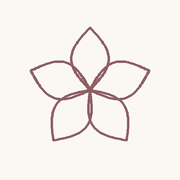
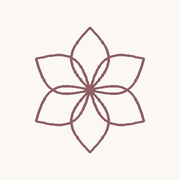
Correct the bloom mark to 6 petals — true lilies have 6, not 5
The site's signature flower (buttons, dividers, sprig/spray accents, both
favicons) was drawn with 5-fold symmetry, closer to a generic wildflower
than the plant the brand is actually named after. Lilium blooms show 6
tepals (3 petals + 3 look-alike sepals in two overlapping whorls of 3), and
daylilies match. For a brand literally called Lilylynne, the mark should
read as a lily.

Changed every instance from rotate(72/144/216/288) [5 petals] to
rotate(60/120/180/240/300) [6 petals] — the standalone bloom, the small
bloom on the sprig divider, both blooms on the corner spray, and the
favicon.svg — kept in sync across assets/botanicals.svg and the duplicated
inline sprites in index.html and contact.html. Regenerated the raster
favicon-32.png and apple-touch-icon.png with the same 6-fold symmetry.

Petal shape and stroke weight untouched — only the count changed, so this
reads as the same mark, corrected, not a new one.

Changed region(s): [[0.1667, 0.2778, 0.8333, 0.8611]]

diff --git a/index.html b/index.html
@@ -83,10 +83,11 @@
   <symbol id="bot-bloom" viewBox="0 0 24 24">
     <g fill="none" stroke="currentColor" stroke-width="1" stroke-linecap="round" stroke-linejoin="round">
       <path d="M12 12 C 9.6 9.2 9.4 5.6 12 3 C 14.6 5.6 14.4 9.2 12 12 Z"/>
-      <path d="M12 12 C 9.6 9.2 9.4 5.6 12 3 C 14.6 5.6 14.4 9.2 12 12 Z" transform="rotate(72 12 12)"/>
-      <path d="M12 12 C 9.6 9.2 9.4 5.6 12 3 C 14.6 5.6 14.4 9.2 12 12 Z" transform="rotate(144 12 12)"/>
-      <path d="M12 12 C 9.6 9.2 9.4 5.6 12 3 C 14.6 5.6 14.4 9.2 12 12 Z" transform="rotate(216 12 12)"/>
-      <path d="M12 12 C 9.6 9.2 9.4 5.6 12 3 C 14.6 5.6 14.4 9.2 12 12 Z" transform="rotate(288 12 12)"/>
+      <path d="M12 12 C 9.6 9.2 9.4 5.6 12 3 C 14.6 5.6 14.4 9.2 12 12 Z" transform="rotate(60 12 12)"/>
+      <path d="M12 12 C 9.6 9.2 9.4 5.6 12 3 C 14.6 5.6 14.4 9.2 12 12 Z" transform="rotate(120 12 12)"/>
+      <path d="M12 12 C 9.6 9.2 9.4 5.6 12 3 C 14.6 5.6 14.4 9.2 12 12 Z" transform="rotate(180 12 12)"/>
+      <path d="M12 12 C 9.6 9.2 9.4 5.6 12 3 C 14.6 5.6 14.4 9.2 12 12 Z" transform="rotate(240 12 12)"/>
+      <path d="M12 12 C 9.6 9.2 9.4 5.6 12 3 C 14.6 5.6 14.4 9.2 12 12 Z" transform="rotate(300 12 12)"/>
       <circle cx="12" cy="12" r="1.25"/>
     </g>
   </symbol>
@@ -102,10 +103,11 @@
       <path d="M206 23 C 213 20 216 13 210 9 C 205 13 203 19 206 23 Z"/>
       <g transform="translate(120 23) scale(0.82)">
         <path d="M0 0 C -2.4 -2.8 -2.6 -6.4 0 -9 C 2.6 -6.4 2.4 -2.8 0 0 Z"/>
-        <path d="M0 0 C -2.4 -2.8 -2.6 -6.4 0 -9 C 2.6 -6.4 2.4 -2.8 0 0 Z" transform="rotate(72)"/>
-        <path d="M0 0 C -2.4 -2.8 -2.6 -6.4 0 -9 C 2.6 -6.4 2.4 -2.8 0 0 Z" transform="rotate(144)"/>
-        <path d="M0 0 C -2.4 -2.8 -2.6 -6.4 0 -9 C 2.6 -6.4 2.4 -2.8 0 0 Z" transform="rotate(216)"/>
-        <path d="M0 0 C -2.4 -2.8 -2.6 -6.4 0 -9 C 2.6 -6.4 2.4 -2.8 0 0 Z" transform="rotate(288)"/>
+        <path d="M0 0 C -2.4 -2.8 -2.6 -6.4 0 -9 C 2.6 -6.4 2.4 -2.8 0 0 Z" transform="rotate(60)"/>
+        <path d="M0 0 C -2.4 -2.8 -2.6 -6.4 0 -9 C 2.6 -6.4 2.4 -2.8 0 0 Z" transform="rotate(120)"/>
+        <path d="M0 0 C -2.4 -2.8 -2.6 -6.4 0 -9 C 2.6 -6.4 2.4 -2.8 0 0 Z" transform="rotate(180)"/>
+        <path d="M0 0 C -2.4 -2.8 -2.6 -6.4 0 -9 C 2.6 -6.4 2.4 -2.8 0 0 Z" transform="rotate(240)"/>
+        <path d="M0 0 C -2.4 -2.8 -2.6 -6.4 0 -9 C 2.6 -6.4 2.4 -2.8 0 0 Z" transform="rotate(300)"/>
         <circle cx="0" cy="0" r="1.1"/>
       </g>
       <path d="M104 23 C 108 20 111 21 112 24"/>
@@ -123,18 +125,20 @@
       <path d="M83 39 C 71 37 63 27 67 15 C 77 19 84 29 83 39 Z"/>
       <g transform="translate(101 20) scale(1.15)">
         <path d="M0 0 C -2.4 -2.8 -2.6 -6.4 0 -9 C 2.6 -6.4 2.4 -2.8 0 0 Z"/>
-        <path d="M0 0 C -2.4 -2.8 -2.6 -6.4 0 -9 C 2.6 -6.4 2.4 -2.8 0 0 Z" transform="rotate(72)"/>
-        <path d="M0 0 C -2.4 -2.8 -2.6 -6.4 0 -9 C 2.6 -6.4 2.4 -2.8 0 0 Z" transform="rotate(144)"/>
-        <path d="M0 0 C -2.4 -2.8 -2.6 -6.4 0 -9 C 2.6 -6.4 2.4 -2.8 0 0 Z" transform="rotate(216)"/>
-        <path d="M0 0 C -2.4 -2.8 -2.6 -6.4 0 -9 C 2.6 -6.4 2.4 -2.8 0 0 Z" transform="rotate(288)"/>
+        <path d="M0 0 C -2.4 -2.8 -2.6 -6.4 0 -9 C 2.6 -6.4 2.4 -2.8 0 0 Z" transform="rotate(60)"/>
+        <path d="M0 0 C -2.4 -2.8 -2.6 -6.4 0 -9 C 2.6 -6.4 2.4 -2.8 0 0 Z" transform="rotate(120)"/>
+        <path d="M0 0 C -2.4 -2.8 -2.6 -6.4 0 -9 C 2.6 -6.4 2.4 -2.8 0 0 Z" transform="rotate(180)"/>
+        <path d="M0 0 C -2.4 -2.8 -2.6 -6.4 0 -9 C 2.6 -6.4 2.4 -2.8 0 0 Z" transform="rotate(240)"/>
+        <path d="M0 0 C -2.4 -2.8 -2.6 -6.4 0 -9 C 2.6 -6.4 2.4 -2.8 0 0 Z" transform="rotate(300)"/>
         <circle cx="0" cy="0" r="1.1"/>
       </g>
       <g transform="translate(94 98) scale(0.8)">
         <path d="M0 0 C -2.4 -2.8 -2.6 -6.4 0 -9 C 2.6 -6.4 2.4 -2.8 0 0 Z"/>
-        <path d="M0 0 C -2.4 -2.8 -2.6 -6.4 0 -9 C 2.6 -6.4 2.4 -2.8 0 0 Z" transform="rotate(72)"/>
-        <path d="M0 0 C -2.4 -2.8 -2.6 -6.4 0 -9 C 2.6 -6.4 2.4 -2.8 0 0 Z" transform="rotate(144)"/>
-        <path d="M0 0 C -2.4 -2.8 -2.6 -6.4 0 -9 C 2.6 -6.4 2.4 -2.8 0 0 Z" transform="rotate(216)"/>
-        <path d="M0 0 C -2.4 -2.8 -2.6 -6.4 0 -9 C 2.6 -6.4 2.4 -2.8 0 0 Z" transform="rotate(288)"/>
+        <path d="M0 0 C -2.4 -2.8 -2.6 -6.4 0 -9 C 2.6 -6.4 2.4 -2.8 0 0 Z" transform="rotate(60)"/>
+        <path d="M0 0 C -2.4 -2.8 -2.6 -6.4 0 -9 C 2.6 -6.4 2.4 -2.8 0 0 Z" transform="rotate(120)"/>
+        <path d="M0 0 C -2.4 -2.8 -2.6 -6.4 0 -9 C 2.6 -6.4 2.4 -2.8 0 0 Z" transform="rotate(180)"/>
+        <path d="M0 0 C -2.4 -2.8 -2.6 -6.4 0 -9 C 2.6 -6.4 2.4 -2.8 0 0 Z" transform="rotate(240)"/>
+        <path d="M0 0 C -2.4 -2.8 -2.6 -6.4 0 -9 C 2.6 -6.4 2.4 -2.8 0 0 Z" transform="rotate(300)"/>
         <circle cx="0" cy="0" r="1"/>
       </g>
     </g>

diff --git a/contact.html b/contact.html
@@ -70,10 +70,11 @@
   <symbol id="bot-bloom" viewBox="0 0 24 24">
     <g fill="none" stroke="currentColor" stroke-width="1" stroke-linecap="round" stroke-linejoin="round">
       <path d="M12 12 C 9.6 9.2 9.4 5.6 12 3 C 14.6 5.6 14.4 9.2 12 12 Z"/>
-      <path d="M12 12 C 9.6 9.2 9.4 5.6 12 3 C 14.6 5.6 14.4 9.2 12 12 Z" transform="rotate(72 12 12)"/>
-      <path d="M12 12 C 9.6 9.2 9.4 5.6 12 3 C 14.6 5.6 14.4 9.2 12 12 Z" transform="rotate(144 12 12)"/>
-      <path d="M12 12 C 9.6 9.2 9.4 5.6 12 3 C 14.6 5.6 14.4 9.2 12 12 Z" transform="rotate(216 12 12)"/>
-      <path d="M12 12 C 9.6 9.2 9.4 5.6 12 3 C 14.6 5.6 14.4 9.2 12 12 Z" transform="rotate(288 12 12)"/>
+      <path d="M12 12 C 9.6 9.2 9.4 5.6 12 3 C 14.6 5.6 14.4 9.2 12 12 Z" transform="rotate(60 12 12)"/>
+      <path d="M12 12 C 9.6 9.2 9.4 5.6 12 3 C 14.6 5.6 14.4 9.2 12 12 Z" transform="rotate(120 12 12)"/>
+      <path d="M12 12 C 9.6 9.2 9.4 5.6 12 3 C 14.6 5.6 14.4 9.2 12 12 Z" transform="rotate(180 12 12)"/>
+      <path d="M12 12 C 9.6 9.2 9.4 5.6 12 3 C 14.6 5.6 14.4 9.2 12 12 Z" transform="rotate(240 12 12)"/>
+      <path d="M12 12 C 9.6 9.2 9.4 5.6 12 3 C 14.6 5.6 14.4 9.2 12 12 Z" transform="rotate(300 12 12)"/>
       <circle cx="12" cy="12" r="1.25"/>
     </g>
   </symbol>
@@ -89,10 +90,11 @@
       <path d="M206 23 C 213 20 216 13 210 9 C 205 13 203 19 206 23 Z"/>
       <g transform="translate(120 23) scale(0.82)">
         <path d="M0 0 C -2.4 -2.8 -2.6 -6.4 0 -9 C 2.6 -6.4 2.4 -2.8 0 0 Z"/>
-        <path d="M0 0 C -2.4 -2.8 -2.6 -6.4 0 -9 C 2.6 -6.4 2.4 -2.8 0 0 Z" transform="rotate(72)"/>
-        <path d="M0 0 C -2.4 -2.8 -2.6 -6.4 0 -9 C 2.6 -6.4 2.4 -2.8 0 0 Z" transform="rotate(144)"/>
-        <path d="M0 0 C -2.4 -2.8 -2.6 -6.4 0 -9 C 2.6 -6.4 2.4 -2.8 0 0 Z" transform="rotate(216)"/>
-        <path d="M0 0 C -2.4 -2.8 -2.6 -6.4 0 -9 C 2.6 -6.4 2.4 -2.8 0 0 Z" transform="rotate(288)"/>
+        <path d="M0 0 C -2.4 -2.8 -2.6 -6.4 0 -9 C 2.6 -6.4 2.4 -2.8 0 0 Z" transform="rotate(60)"/>
+        <path d="M0 0 C -2.4 -2.8 -2.6 -6.4 0 -9 C 2.6 -6.4 2.4 -2.8 0 0 Z" transform="rotate(120)"/>
+        <path d="M0 0 C -2.4 -2.8 -2.6 -6.4 0 -9 C 2.6 -6.4 2.4 -2.8 0 0 Z" transform="rotate(180)"/>
+        <path d="M0 0 C -2.4 -2.8 -2.6 -6.4 0 -9 C 2.6 -6.4 2.4 -2.8 0 0 Z" transform="rotate(240)"/>
+        <path d="M0 0 C -2.4 -2.8 -2.6 -6.4 0 -9 C 2.6 -6.4 2.4 -2.8 0 0 Z" transform="rotate(300)"/>
         <circle cx="0" cy="0" r="1.1"/>
       </g>
       <path d="M104 23 C 108 20 111 21 112 24"/>
@@ -110,18 +112,20 @@
       <path d="M83 39 C 71 37 63 27 67 15 C 77 19 84 29 83 39 Z"/>
       <g transform="translate(101 20) scale(1.15)">
         <path d="M0 0 C -2.4 -2.8 -2.6 -6.4 0 -9 C 2.6 -6.4 2.4 -2.8 0 0 Z"/>
-        <path d="M0 0 C -2.4 -2.8 -2.6 -6.4 0 -9 C 2.6 -6.4 2.4 -2.8 0 0 Z" transform="rotate(72)"/>
-        <path d="M0 0 C -2.4 -2.8 -2.6 -6.4 0 -9 C 2.6 -6.4 2.4 -2.8 0 0 Z" transform="rotate(144)"/>
-        <path d="M0 0 C -2.4 -2.8 -2.6 -6.4 0 -9 C 2.6 -6.4 2.4 -2.8 0 0 Z" transform="rotate(216)"/>
-        <path d="M0 0 C -2.4 -2.8 -2.6 -6.4 0 -9 C 2.6 -6.4 2.4 -2.8 0 0 Z" transform="rotate(288)"/>
+        <path d="M0 0 C -2.4 -2.8 -2.6 -6.4 0 -9 C 2.6 -6.4 2.4 -2.8 0 0 Z" transform="rotate(60)"/>
+        <path d="M0 0 C -2.4 -2.8 -2.6 -6.4 0 -9 C 2.6 -6.4 2.4 -2.8 0 0 Z" transform="rotate(120)"/>
+        <path d="M0 0 C -2.4 -2.8 -2.6 -6.4 0 -9 C 2.6 -6.4 2.4 -2.8 0 0 Z" transform="rotate(180)"/>
+        <path d="M0 0 C -2.4 -2.8 -2.6 -6.4 0 -9 C 2.6 -6.4 2.4 -2.8 0 0 Z" transform="rotate(240)"/>
+        <path d="M0 0 C -2.4 -2.8 -2.6 -6.4 0 -9 C 2.6 -6.4 2.4 -2.8 0 0 Z" transform="rotate(300)"/>
         <circle cx="0" cy="0" r="1.1"/>
       </g>
       <g transform="translate(94 98) scale(0.8)">
         <path d="M0 0 C -2.4 -2.8 -2.6 -6.4 0 -9 C 2.6 -6.4 2.4 -2.8 0 0 Z"/>
-        <path d="M0 0 C -2.4 -2.8 -2.6 -6.4 0 -9 C 2.6 -6.4 2.4 -2.8 0 0 Z" transform="rotate(72)"/>
-        <path d="M0 0 C -2.4 -2.8 -2.6 -6.4 0 -9 C 2.6 -6.4 2.4 -2.8 0 0 Z" transform="rotate(144)"/>
-        <path d="M0 0 C -2.4 -2.8 -2.6 -6.4 0 -9 C 2.6 -6.4 2.4 -2.8 0 0 Z" transform="rotate(216)"/>
-        <path d="M0 0 C -2.4 -2.8 -2.6 -6.4 0 -9 C 2.6 -6.4 2.4 -2.8 0 0 Z" transform="rotate(288)"/>
+        <path d="M0 0 C -2.4 -2.8 -2.6 -6.4 0 -9 C 2.6 -6.4 2.4 -2.8 0 0 Z" transform="rotate(60)"/>
+        <path d="M0 0 C -2.4 -2.8 -2.6 -6.4 0 -9 C 2.6 -6.4 2.4 -2.8 0 0 Z" transform="rotate(120)"/>
+        <path d="M0 0 C -2.4 -2.8 -2.6 -6.4 0 -9 C 2.6 -6.4 2.4 -2.8 0 0 Z" transform="rotate(180)"/>
+        <path d="M0 0 C -2.4 -2.8 -2.6 -6.4 0 -9 C 2.6 -6.4 2.4 -2.8 0 0 Z" transform="rotate(240)"/>
+        <path d="M0 0 C -2.4 -2.8 -2.6 -6.4 0 -9 C 2.6 -6.4 2.4 -2.8 0 0 Z" transform="rotate(300)"/>
         <circle cx="0" cy="0" r="1"/>
       </g>
     </g>
